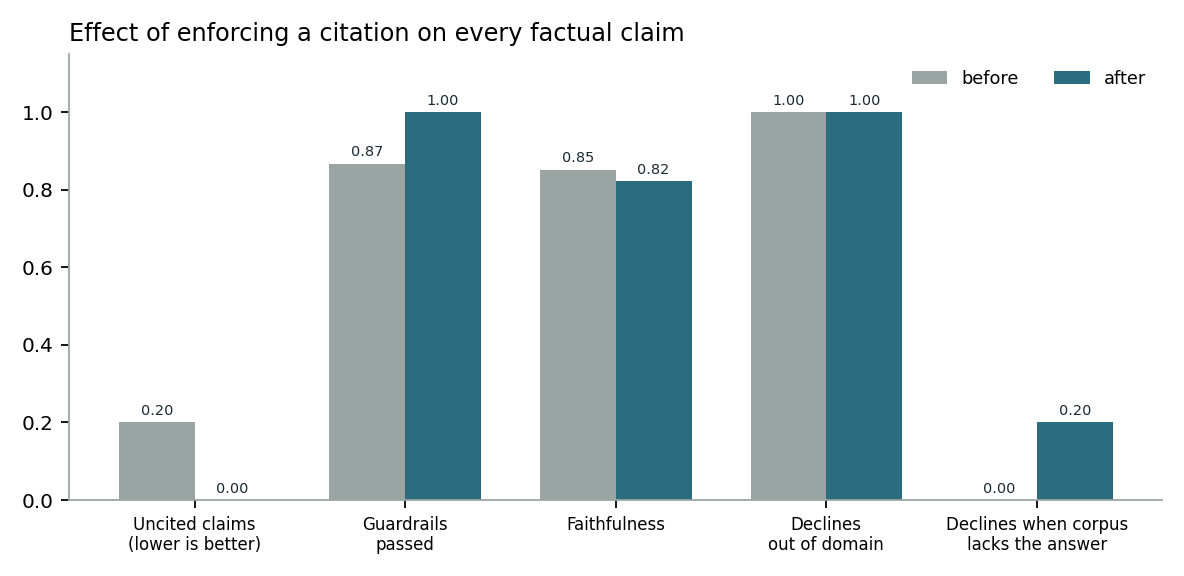
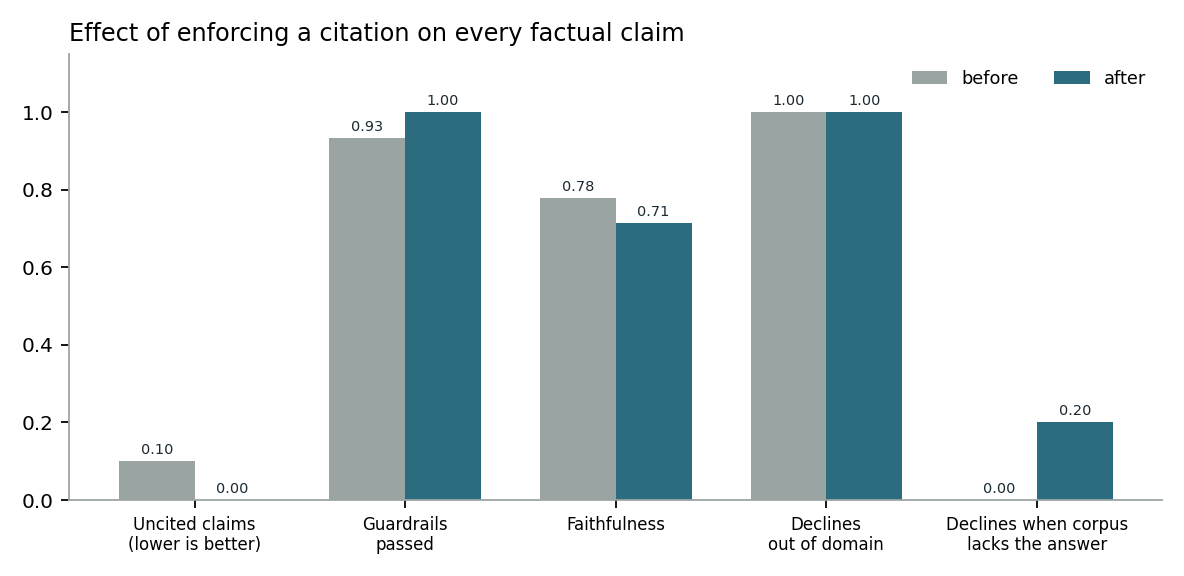
feat: add local vs Azure comparison figures

Changed region(s): [[0.4375, 0.25, 0.5938, 0.4062], [0.0938, 0.6875, 0.1875, 0.8125], [0.25, 0.2188, 0.3438, 0.3125]]

diff --git a/scripts/plot_results.py b/scripts/plot_results.py
@@ -6,9 +6,11 @@ new configuration is evaluated, rerunning this script updates the figures, and
 nobody has to trust that the numbers in the README match the ones measured.
 
 Outputs, in docs/:
-    retrieval_ablation.png   nDCG and recall per retrieval configuration
-    quality_vs_cost.png      nDCG against total latency, log scale
-    prompt_effect.png        answer metrics before and after the prompt fix
+    retrieval_ablation.png    nDCG and recall per retrieval configuration (local)
+    quality_vs_cost.png       nDCG against total latency, log scale (local)
+    backend_comparison.png    same strategies, local embedder against hosted one
+    answer_comparison.png     answer-level metrics, local model against hosted
+    prompt_effect.png         answer metrics before and after the prompt fix
 
 Note on latency: all retrieval runs must be measured back to back with the
 models already loaded, otherwise a cold start inflates whichever ran first and
@@ -41,20 +43,24 @@ plt.rcParams.update({
 
 
 def load_retrieval() -> list[dict]:
-    """Retrieval runs, ordered by score so the progression reads left to right."""
+    """All retrieval runs, tagged by backend so local and cloud can be compared."""
     runs = []
-    for path in RESULTS.glob("ollama*.json"):
+    for path in RESULTS.glob("*.json"):
+        if path.name.startswith("answers-"):
+            continue
         data = json.load(path.open())
         cfg = data["config"]
+        backend = "azure" if cfg["embedder"].startswith("azure") else "local"
         label = cfg["strategy"] + (" + rerank" if cfg.get("rerank") else "")
         runs.append({
+            "backend": backend,
             "label": label,
             "ndcg": data["metrics"]["ndcg@10"],
             "r10": data["metrics"]["recall@10"],
             "r50": data["metrics"]["recall@50"],
             "elapsed": data["elapsed_s"],
         })
-    return sorted(runs, key=lambda r: r["ndcg"])
+    return runs
 
 
 def plot_ablation(runs: list[dict]) -> None:
@@ -76,7 +82,7 @@ def plot_ablation(runs: list[dict]) -> None:
     ax.set_xticklabels([r["label"] for r in runs])
     ax.set_ylabel("score")
     ax.set_ylim(0, 0.42)
-    ax.set_title("Retrieval quality by configuration (NFCorpus, 323 queries)", loc="left")
+    ax.set_title("Retrieval quality by configuration (local, NFCorpus)", loc="left")
     ax.legend(frameon=False, ncols=3, loc="upper left", fontsize=8)
     fig.tight_layout()
     fig.savefig(DOCS / "retrieval_ablation.png")
@@ -106,10 +112,89 @@ def plot_quality_vs_cost(runs: list[dict]) -> None:
     plt.close(fig)
 
 
+def plot_backend_comparison(runs: list[dict]) -> None:
+    """Same four strategies, two embedding backends, side by side.
+
+    The point this figure makes: the embedding model matters more than the
+    retrieval strategy. Stacking hybrid and reranking compensates for a weak
+    embedder, and stops paying off once the embedder is strong.
+    """
+    order = ["dense", "bm25", "hybrid", "hybrid + rerank"]
+    by_backend = {
+        b: {r["label"]: r["ndcg"] for r in runs if r["backend"] == b}
+        for b in ("local", "azure")
+    }
+
+    fig, ax = plt.subplots(figsize=(7, 3.6))
+    x = range(len(order))
+    width = 0.36
+
+    for offset, backend, name, color in [
+        (-width / 2, "local", "local (qwen3-embedding:0.6b)", GREY),
+        (width / 2, "azure", "azure (text-embedding-3-small)", ACCENT),
+    ]:
+        values = [by_backend[backend].get(label, 0) for label in order]
+        bars = ax.bar([i + offset for i in x], values, width, label=name, color=color)
+        ax.bar_label(bars, fmt="%.3f", fontsize=6.5, padding=2, color=INK)
+
+    ax.set_xticks(list(x))
+    ax.set_xticklabels(order, fontsize=8)
+    ax.set_ylabel("nDCG@10")
+    ax.set_ylim(0, 0.45)
+    ax.set_title("Embedding backend matters more than retrieval strategy", loc="left")
+    ax.legend(frameon=False, ncols=2, loc="upper left", fontsize=7.5)
+    fig.tight_layout()
+    fig.savefig(DOCS / "backend_comparison.png")
+    plt.close(fig)
+
+
+def plot_answer_comparison() -> None:
+    """Answer-level metrics, local model against hosted model.
+
+    Both were measured after the citation-parsing fix, so the numbers are
+    comparable: an earlier version of the guardrail reported valid grouped
+    citations as uncited, which unfairly penalised the hosted model.
+    """
+    local = json.load((RESULTS / "answers-local-strict-v2.json").open())["summary"]
+    azure = json.load((RESULTS / "answers-azure-strict-v2.json").open())["summary"]
+
+    metrics = [
+        ("hallucination_rate", "Uncited claims\n(lower is better)"),
+        ("guardrail_pass", "Guardrails\npassed"),
+        ("faithfulness", "Faithfulness"),
+        ("abstention_rate_ood", "Declines\nout of domain"),
+    ]
+
+    fig, ax = plt.subplots(figsize=(6.8, 3.5))
+    x = range(len(metrics))
+    width = 0.36
+
+    for offset, data, name, color in [
+        (-width / 2, local, "local (qwen2.5:3b)", GREY),
+        (width / 2, azure, "azure (gpt-5-mini)", ACCENT),
+    ]:
+        values = [data[key] or 0 for key, _ in metrics]
+        bars = ax.bar([i + offset for i in x], values, width, label=name, color=color)
+        ax.bar_label(bars, fmt="%.2f", fontsize=6.5, padding=2, color=INK)
+
+    ax.set_xticks(list(x))
+    ax.set_xticklabels([label for _, label in metrics], fontsize=7.5)
+    ax.set_ylim(0, 1.2)
+    ax.set_title("Answer quality: local model against hosted model", loc="left")
+    ax.legend(frameon=False, ncols=2, loc="upper right", fontsize=7.5)
+    fig.tight_layout()
+    fig.savefig(DOCS / "answer_comparison.png")
+    plt.close(fig)
+
+
 def plot_prompt_effect() -> None:
-    """Before and after the citation rule was tightened."""
-    before = json.load((RESULTS / "answers-strict-v1.json").open())["summary"]
-    after = json.load((RESULTS / "answers-strict-v2.json").open())["summary"]
+    """Before and after the citation rule was tightened.
+
+    Both runs were re-measured after the citation-parsing fix, so the comparison
+    isolates the prompt change rather than mixing it with a harness change.
+    """
+    before = json.load((RESULTS / "answers-local-strict-v1.json").open())["summary"]
+    after = json.load((RESULTS / "answers-local-strict-v2.json").open())["summary"]
 
     # Labels spell out the direction of improvement: two of these metrics are
     # good when they rise, one is good when it falls, and one is only correct
@@ -147,10 +232,17 @@ def plot_prompt_effect() -> None:
 def main() -> None:
     DOCS.mkdir(exist_ok=True)
     runs = load_retrieval()
-    plot_ablation(runs)
-    plot_quality_vs_cost(runs)
+
+    # The ablation figures stay local-only: mixing backends would confound two
+    # variables at once. The comparison gets its own figure.
+    local = sorted([r for r in runs if r["backend"] == "local"], key=lambda r: r["ndcg"])
+    plot_ablation(local)
+    plot_quality_vs_cost(local)
+
+    plot_backend_comparison(runs)
+    plot_answer_comparison()
     plot_prompt_effect()
-    print(f"wrote 3 figures to {DOCS}")
+    print(f"wrote 5 figures to {DOCS}")
 
 
 if __name__ == "__main__":
